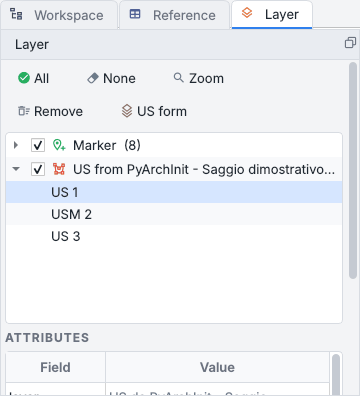
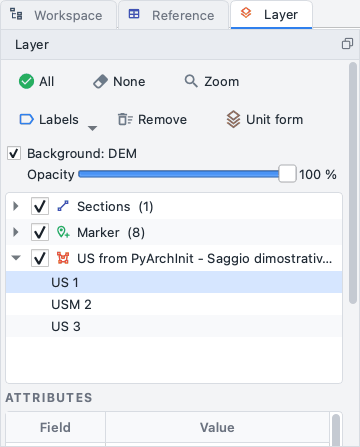
docs(gui): the row Background of the Layer pane and View > Show the background (EN/IT, new pictures)

diff --git a/docs/gui/panes.it.md b/docs/gui/panes.it.md
@@ -146,8 +146,15 @@ Tutto ciò che si disegna su ortofoto e DEM è un layer: unità stratigrafiche, 
 PyArchInit, tracce di sezione, curve di livello, piante a quota, quote, marker, punti di misura, misure, pietre,
 patch.
 
+* **Sfondo** (app **1.7.5**): la prima riga, *Sfondo: Ortofoto* (o *DEM*, il rilievo, *Prospetto «nome»*, *Sezione
+  «nome»*), è il raster sotto i disegni. Togli la spunta per nasconderlo e vedere solo ciò che ci è disegnato sopra, su
+  un fondo grigio uniforme; *Opacità* (0-100 %) invece lo sbiadisce. È lo stesso di **Vista > Mostra lo sfondo**
+  (++ctrl+shift+b++). Ogni raster tiene la sua scelta finché il programma è aperto (l'ortofoto nascosta, il DEM visibile,
+  un prospetto sbiadito...) e la ritrova quando lo rivedi; gli strumenti di disegno, le quote sotto il cursore e le
+  esportazioni funzionano come sempre. Non si salva nel progetto.
 * La spunta mostra o nasconde un layer, il doppio clic ingrandisce su di esso (un layer o un singolo
-  elemento), *Rimuovi* lo toglie; *Tutti* e *Nessuno* spuntano tutti i layer (un solo passo di *Modifica > Annulla*).
+  elemento), *Rimuovi* lo toglie; *Tutti* e *Nessuno* spuntano tutti i layer disegnati (un solo passo di *Modifica >
+  Annulla*) e lasciano lo sfondo com'è.
 * In modalità *Sposta / interroga* un clic su un elemento mostra i suoi attributi (US, area, m2, quota di una
   curva...) qui e nella barra di stato.
 * **Modificare gli attributi**: doppio clic su un valore sotto *Attributi* per cambiarlo (US, area, tipo,

diff --git a/docs/gui/panes.md b/docs/gui/panes.md
@@ -143,8 +143,14 @@ Everything drawn on the orthophoto and the DEM is a layer: stratigraphic units, 
 PyArchInit, section traces, contour lines, plan slices, spot heights, markers, measuring points, measures,
 stones, patches.
 
+* **Background** (application **1.7.5**): the first row, *Background: Orthophoto* (or *DEM*, the relief, *Elevation
+  «name»*, *Section «name»*), is the raster under the drawings. Untick it to hide the raster and see only what is drawn
+  on it, on a plain grey background; *Opacity* (0-100 %) fades it instead. The same as **View > Show the background**
+  (++ctrl+shift+b++). Each raster keeps its choice while the program is open (the orthophoto hidden, the DEM shown, an
+  elevation faded...) and gets it back when it is shown again; the drawing tools, the heights under the cursor and the
+  exports work as usual. Not saved in the project.
 * Tick to show or hide a layer, double click to zoom (a layer or a single feature), *Remove* takes it away;
-  *All* and *None* tick every layer (one step of *Edit > Undo*).
+  *All* and *None* tick every drawn layer (one step of *Edit > Undo*) and leave the background as it is.
 * In *Pan / query* mode a click on a feature shows its attributes (US, area, m2, elevation of a contour...)
   here and in the status bar.
 * **Editing the attributes**: double click a value under *Attributes* to change it (US, area, type, label,

diff --git a/docs/gui/menus.it.md b/docs/gui/menus.it.md
@@ -409,6 +409,7 @@ Come funziona il collegamento nei due sensi è spiegato in [QGIS dal vivo](../in
 | **Area di lavoro** ... **Log** | porta davanti un pannello (la console anche con ++ctrl+shift+p++) |
 | **Assistente** | *Apri l'assistente*; **Azioni**: *Chiedi sempre*, *Subito le rapide* (predefinito), *Esegui tutto (script ed esportazioni chiedono)* - quando partono le azioni dell'assistente ([Azioni](assistant.md#azioni)) |
 | **Modello** ++f2++ · **Ortofoto / DEM** ++f3++ · **Foto** ++f4++ | le tre viste centrali (nell'area di lavoro ++f2++ rinomina) |
+| **Mostra lo sfondo (ortofoto, DEM, prospetto)** ++ctrl+shift+b++ | nasconde o mostra il raster della vista 2D sotto i disegni, come la riga *Sfondo* del [pannello Layer](panes.md#layer), dove c'è anche l'opacità (1.7.5) |
 | **Trackball** | quando si disegna la sfera di rotazione della vista 3D: quando il mouse è sulla vista, sempre, mai ([Vista 3D e trackball](view3d.md)) |
 | **Barre** | *Barra di disegno classica*: la vecchia barra orizzontale degli strumenti di disegno sotto la barra in alto, al posto della [barra laterale](index.md#la-barra-laterale-della-vista-2d) della vista 2D; ricordata |
 | **Tema** | chiaro o scuro, ricordato |

diff --git a/docs/gui/menus.md b/docs/gui/menus.md
@@ -409,6 +409,7 @@ How the link works both ways is in [QGIS, live](../integrations.md#qgis-live).
 | **Workspace** ... **Log** | brings a pane to the front (the console also with ++ctrl+shift+p++) |
 | **Assistant** | *Open the assistant*; **Actions**: *Always ask*, *Quick ones at once* (default), *Run everything (scripts and exports ask)* - when the assistant's actions run ([Actions](assistant.md#actions)) |
 | **Model** ++f2++ · **Orthophoto / DEM** ++f3++ · **Photos** ++f4++ | the three central views (in the workspace ++f2++ renames) |
+| **Show the background (orthophoto, DEM, elevation)** ++ctrl+shift+b++ | hides or shows the raster of the 2D view under the drawings, as the row *Background* of the [Layer pane](panes.md#layer), where its opacity is (1.7.5) |
 | **Trackball** | when the sphere of rotation of the 3D view is drawn: when the mouse is over the view, always, never ([3D view and trackball](view3d.md)) |
 | **Bars** | *Classic drawing bar*: the old horizontal bar of the drawing tools under the top bar, instead of the [tool rail](index.md#the-tool-rail-of-the-2d-view) of the 2D view; remembered |
 | **Theme** | light or dark, remembered |
